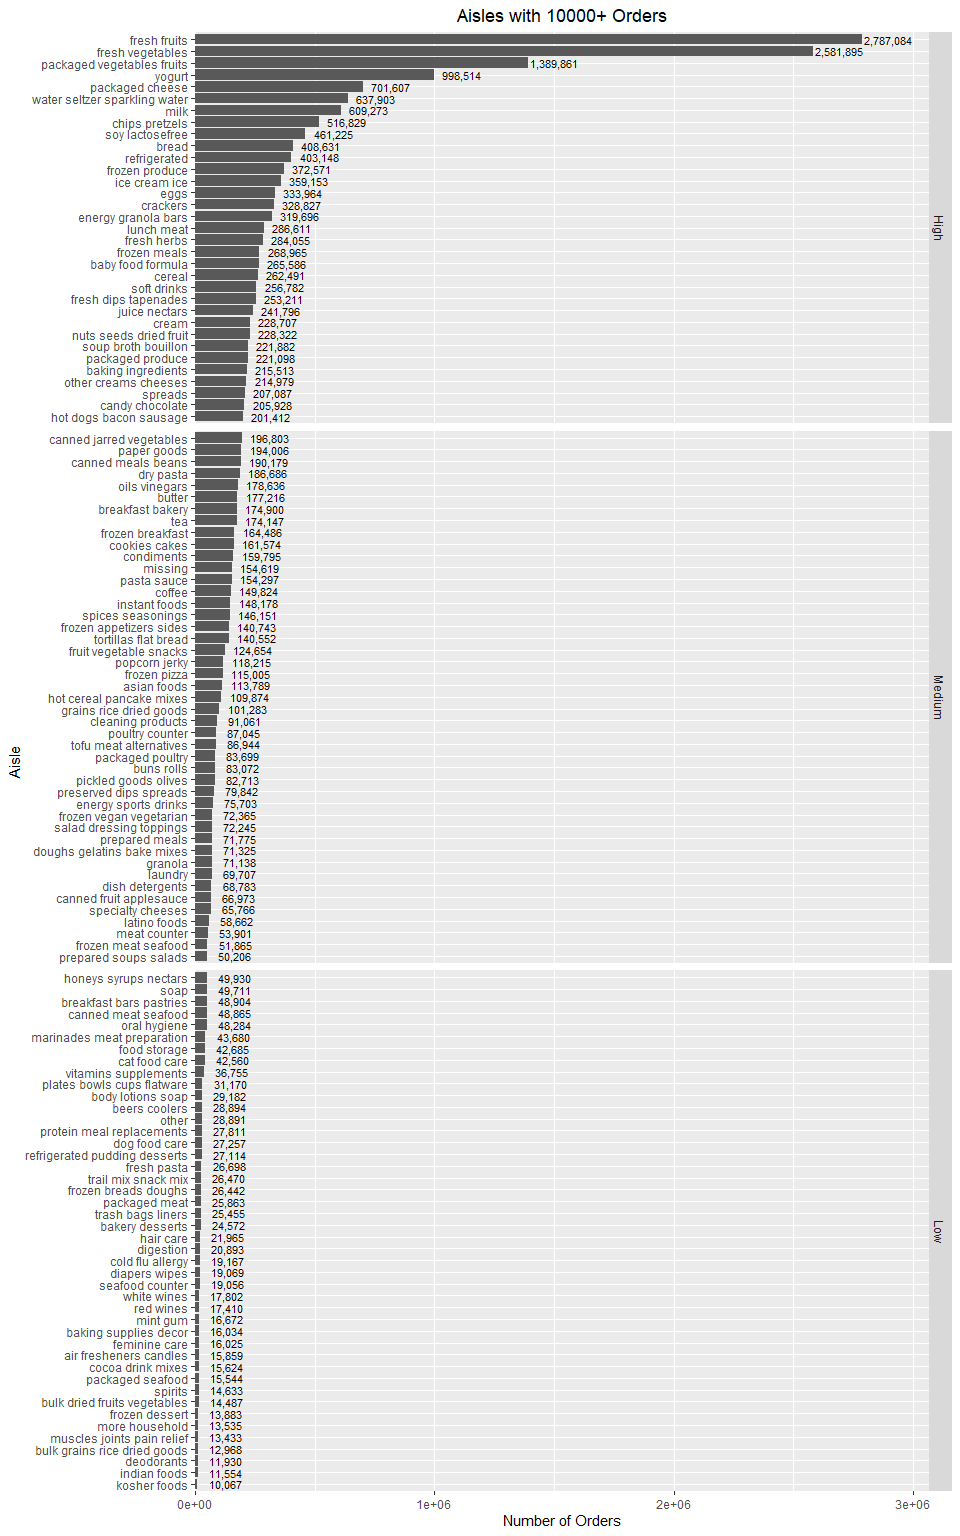
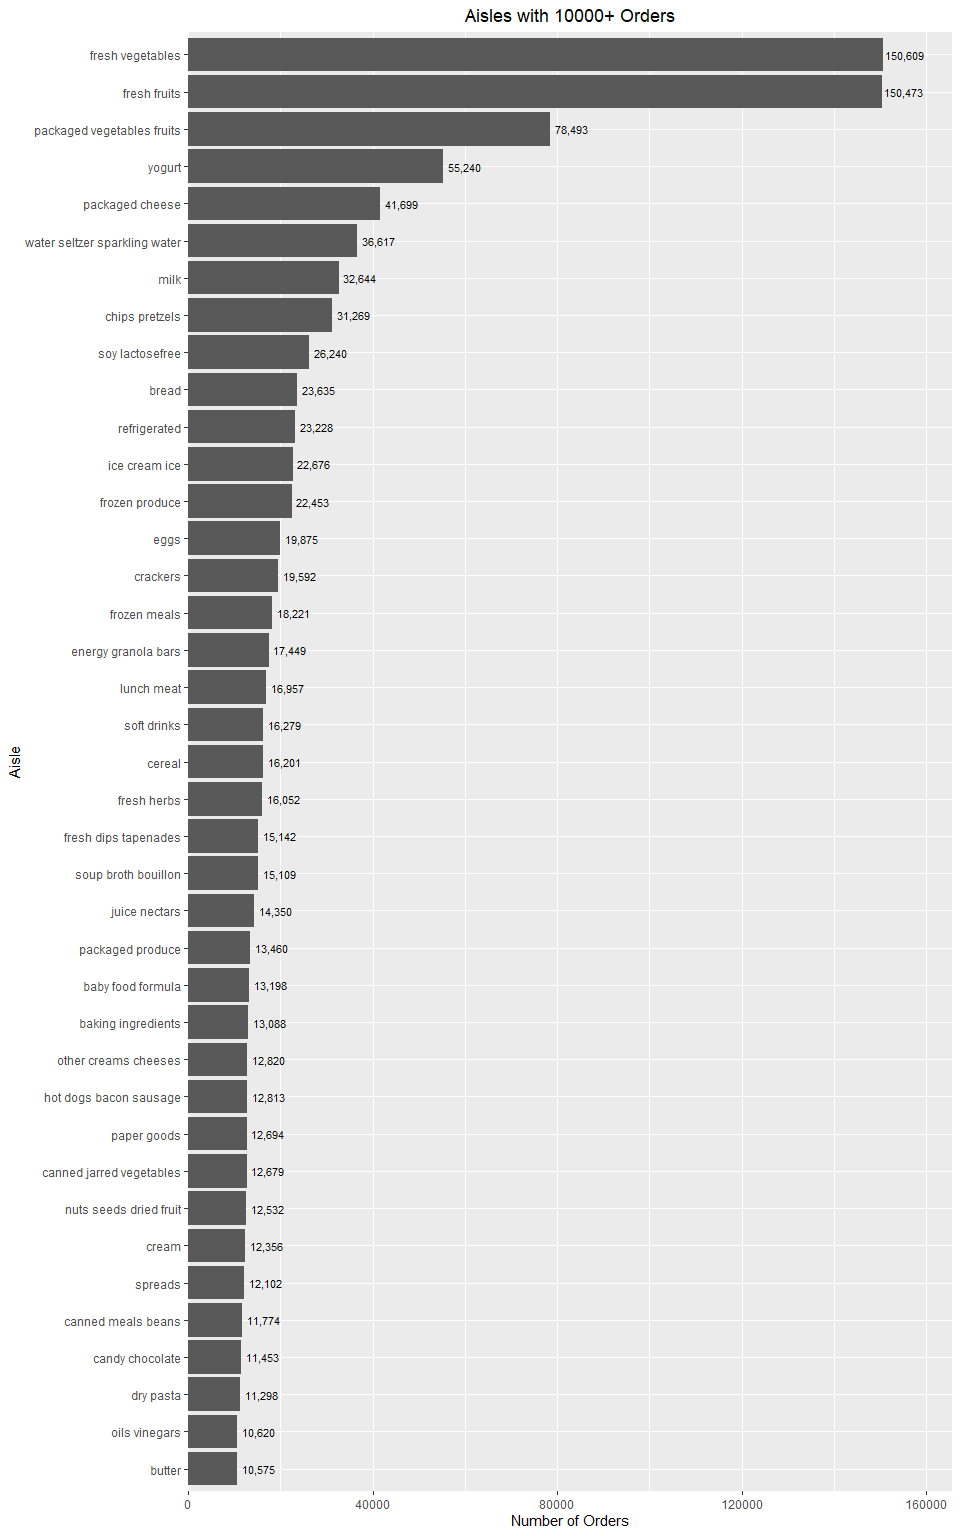
completed problem 1 and several changes to the previous work

diff --git a/hw3.md b/hw3.md
@@ -27,14 +27,14 @@ library(p8105.datasets)
 
 data("instacart") 
 insta_ez_to_read = instacart %>% 
-  select(order_number, aisle, everything())
+  select(aisle, everything())
 ```
 
 ``` r
 # group by same aisles and sum up the order number for the same group 
 total_aisle_df = insta_ez_to_read %>% 
   group_by(aisle) %>% 
-  summarise(total_orders = sum(order_number)) %>%
+  summarise(total_orders = n(), aisle = first(aisle)) %>%
   arrange(desc(total_orders))
 
 # count the number of different aisles
@@ -55,12 +55,13 @@ print(best_seller)
 ```
 
     ## # A tibble: 1 × 2
-    ##   aisle        total_orders
-    ##   <chr>               <int>
-    ## 1 fresh fruits      2787084
+    ##   aisle            total_orders
+    ##   <chr>                   <int>
+    ## 1 fresh vegetables       150609
 
-There are 134 different aisles, and most items are ordered form fresh
-fruits, with 2787084 orders in total.
+According to the printed results, there are 134 different aisles, and
+the most items are ordered from fresh vegetables, with 150609 orders in
+total.
 
 ### make a plot
 
@@ -71,17 +72,11 @@ plot_df = total_aisle_df %>%
 library(ggplot2)
 
 plot_df %>% 
-  mutate(order_num_category = if_else(total_orders > 200000, "High", if_else(total_orders > 50000, "Medium", "Low")
-  )) %>% 
-  # for facet display order:
-  mutate(order_num_category = factor(order_num_category, levels = c("High", "Medium", "Low"))) %>% 
-  # set the aisle display order in plot.
   ggplot(aes(y = reorder(aisle, total_orders), x = total_orders)) + 
   geom_col() +
   labs(title = "Aisles with 10000+ Orders", x = "Number of Orders", y = "Aisle") + 
   # add order number labels to the columns.
   geom_text(aes(label = format(total_orders, big.mark = ",")), hjust = -.05, size = 3) + 
-  facet_grid(order_num_category ~ ., scales = "free_y", space = "free_y") +
   # expand x axis from the right side.
   scale_x_continuous(expand = expansion(mult = c(0, .1))) + 
   theme(plot.title = element_text(hjust = .5))
@@ -93,9 +88,9 @@ plot_df %>%
 
 ``` r
 df_for_table = insta_ez_to_read %>% 
-  select(order_number, aisle, product_name) %>% 
+  select(aisle, product_name) %>% 
   group_by(product_name) %>% 
-  summarise(total_orders = sum(order_number), 
+  summarise(total_orders = n(), 
             aisle = first(aisle)) %>% 
   filter(aisle %in% c("baking ingredients", "dog food care", "packaged vegetables fruits" )) %>% 
   group_by(aisle) %>% 
@@ -106,8 +101,47 @@ df_for_table = insta_ez_to_read %>%
 ```
 
     ## # A tibble: 3 × 3
-    ##   aisle                      product_name                 total_orders
-    ##   <chr>                      <chr>                               <int>
-    ## 1 baking ingredients         Light Brown Sugar                    8605
-    ## 2 dog food care              Standard Size Pet Waste bags          675
-    ## 3 packaged vegetables fruits Organic Baby Spinach               171301
+    ##   aisle                      product_name                           total_orders
+    ##   <chr>                      <chr>                                         <int>
+    ## 1 baking ingredients         Light Brown Sugar                               499
+    ## 2 dog food care              Snack Sticks Chicken & Rice Recipe Do…           30
+    ## 3 packaged vegetables fruits Organic Baby Spinach                           9784
+
+### Table: mean hour of the day at which pink lady apples and coffee ice cream are ordered on each day of the week.
+
+``` r
+library(tidyr)
+
+df_for_table2 = insta_ez_to_read %>% 
+  select(product_name, order_dow, order_hour_of_day) %>% 
+  filter(product_name %in% c("Pink Lady Apples", "Coffee Ice Cream")) %>% 
+  group_by(product_name) %>% 
+  mutate(row_id = row_number()) %>% 
+  pivot_wider(names_from = product_name, 
+              values_from = order_hour_of_day) %>% 
+  select(-row_id) %>% 
+  arrange(order_dow) %>% 
+  group_by(order_dow) %>% 
+  summarise(mean_order_hour_apples = mean(`Pink Lady Apples`, na.rm = TRUE), 
+         mean_order_hour_icecream = mean(`Coffee Ice Cream`, na.rm = TRUE)) %>% 
+  mutate(order_dow = recode(order_dow, 
+                            `0` = "Sunday", 
+                            `1` = "Monday", 
+                            `2` = "Tuesday", 
+                            `3` = "Wednesday", 
+                            `4` = "Thursday", 
+                            `5` = "Friday", 
+                            `6` = "Saturday")) %>% 
+  print()
+```
+
+    ## # A tibble: 7 × 3
+    ##   order_dow mean_order_hour_apples mean_order_hour_icecream
+    ##   <chr>                      <dbl>                    <dbl>
+    ## 1 Sunday                      13.4                     13.8
+    ## 2 Monday                      11.4                     14.3
+    ## 3 Tuesday                     11.7                     15.4
+    ## 4 Wednesday                   14.2                     15.3
+    ## 5 Thursday                    11.6                     15.2
+    ## 6 Friday                      12.8                     12.3
+    ## 7 Saturday                    11.9                     13.8
